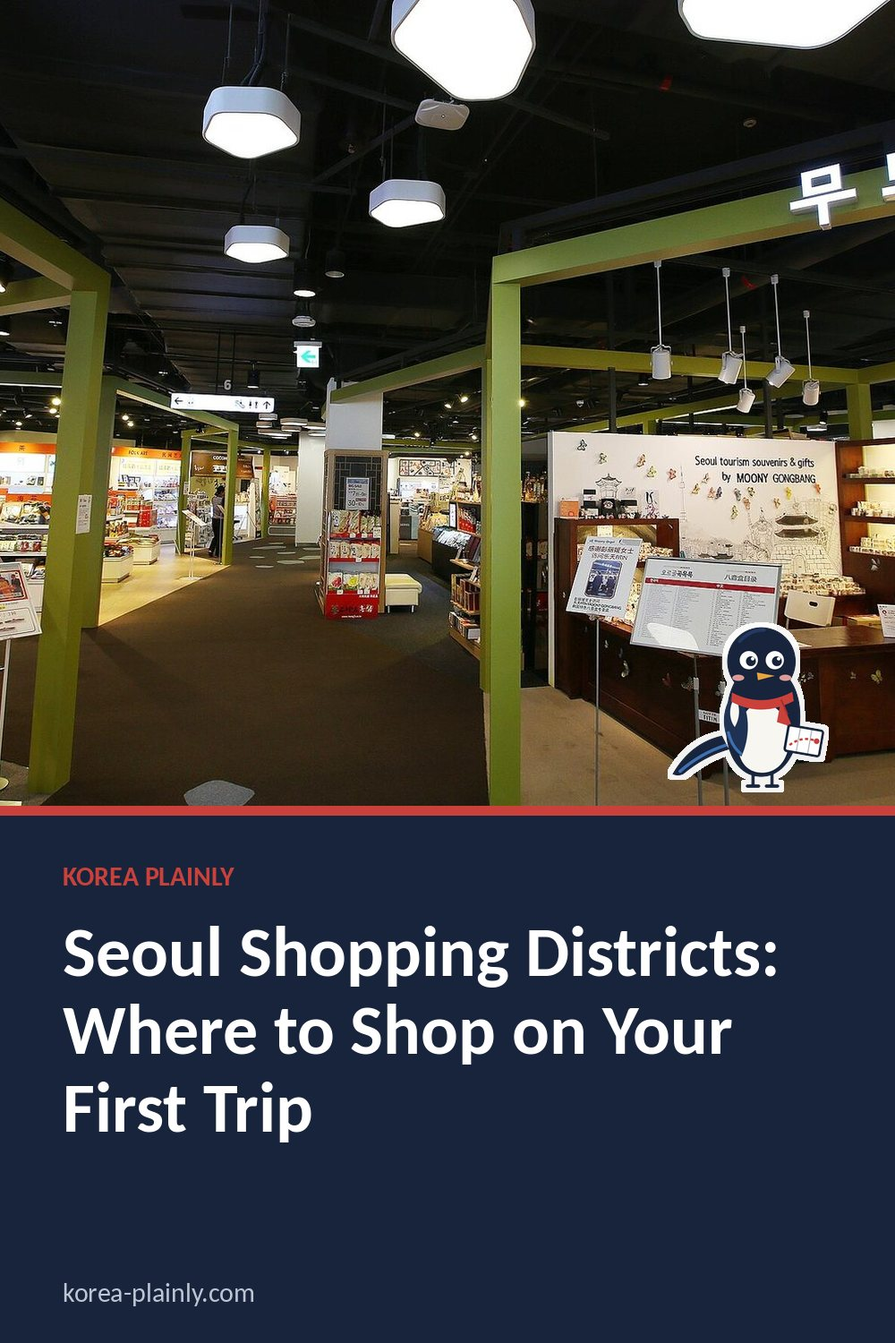
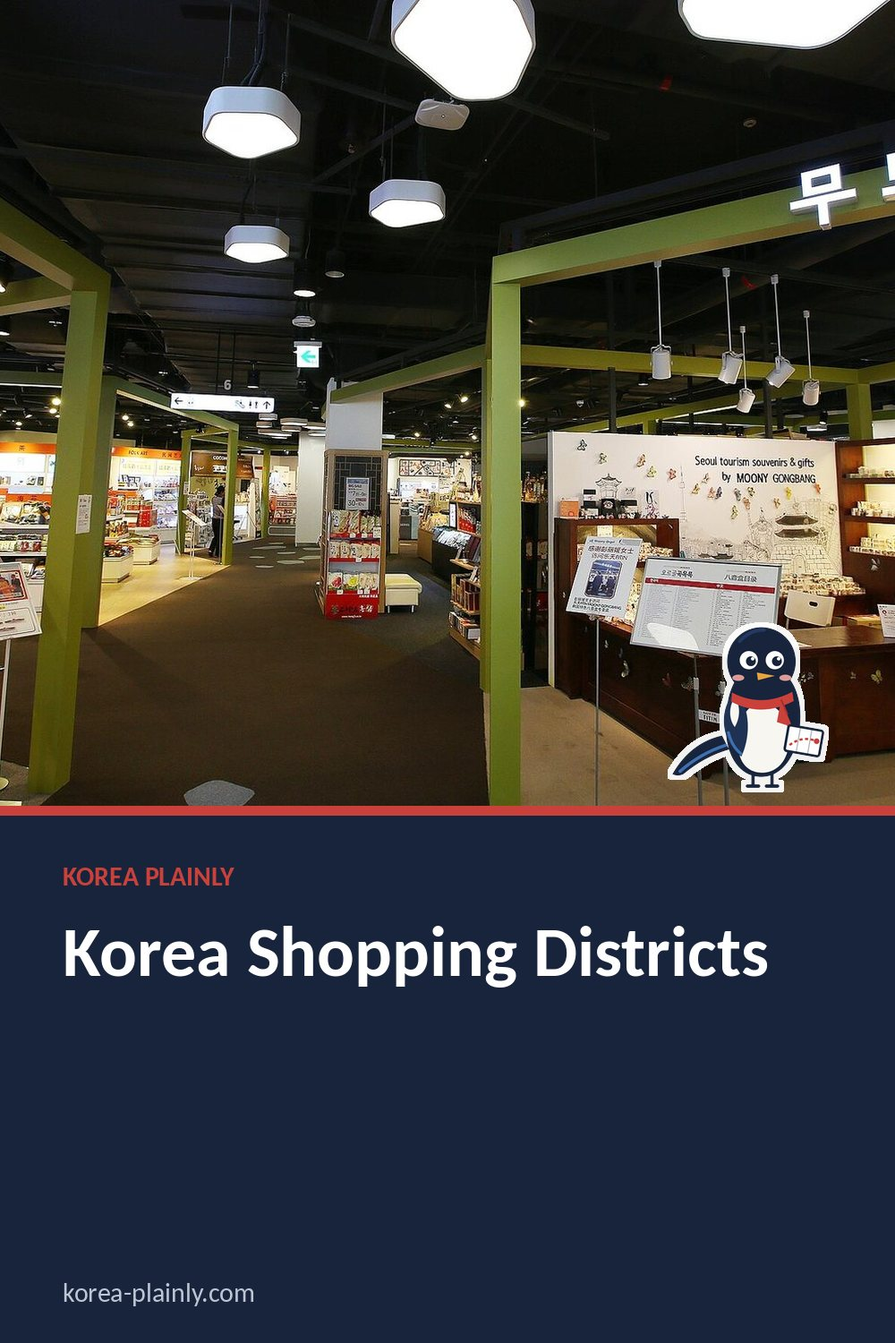
Seoul shopping districts: retitle for 'korea shopping district' and rewrite with stations, exits and real shops
- Title: "Korea Shopping Districts: Where to Shop in Seoul on Your First Trip"
- Quick-pick list by what you want to buy; Myeongdong, Seongsu-dong (pop-up waiting lists),
  Hongdae/Yeonnam-dong, new Gangnam section (GOTO Mall, Gangnam Station arcade, COEX,
  Garosu-gil), Dongdaemun (wholesale vs retail), Namdaemun and Insadong/Ikseon-dong
- Paying, tax refund (15,000 won minimum; immediate refund under 1 million won, 5 million per trip),
  bags, sizes and two Korean phrases; one Naver Map/KakaoMap check line
- Specific bottom line, new FAQ, links to Olive Young, Myeongdong, markets, WOWPASS and tax refund guides
- Specific meta/og/twitter description, dek and guides.html card text; owner's tip box kept as is

Claude-Session: https://claude.ai/code/session_01MMQnqJ4g96w9Ci9kDDL9ms

Changed region(s): [[0.062, 0.6747, 0.868, 0.8587]]

diff --git a/seoul-shopping-districts.html b/seoul-shopping-districts.html
@@ -11,11 +11,11 @@
 >
 
 <link rel="stylesheet" href="style.css?v=20261015-1">
-<title>Seoul Shopping Districts: Where to Shop on Your First Trip</title>
+<title>Korea Shopping Districts: Where to Shop in Seoul on Your First Trip</title>
 
 <meta
   name="description"
-  content="A practical guide to Seoul’s best shopping areas, from Myeongdong beauty stores to Hongdae fashion, Seongsu pop-ups and traditional markets."
+  content="Seoul’s shopping districts compared: Myeongdong for K-beauty, Seongsu for pop-ups, Hongdae, Gangnam’s underground malls, Dongdaemun and the markets."
 >
 <link
   rel="canonical"
@@ -29,12 +29,12 @@
 
 <meta
   property="og:title"
-  content="Seoul Shopping Districts: Where to Shop on Your First Trip"
+  content="Korea Shopping Districts: Where to Shop in Seoul on Your First Trip"
 >
 
 <meta
   property="og:description"
-  content="A practical guide to Seoul’s best shopping areas, from Myeongdong beauty stores to Hongdae fashion, Seongsu pop-ups and traditional markets."
+  content="Seoul’s shopping districts compared: Myeongdong for K-beauty, Seongsu for pop-ups, Hongdae, Gangnam’s underground malls, Dongdaemun and the markets."
 >
 
 <meta
@@ -59,12 +59,12 @@
 
 <meta
   name="twitter:title"
-  content="Seoul Shopping Districts: Where to Shop on Your First Trip"
+  content="Korea Shopping Districts: Where to Shop in Seoul on Your First Trip"
 >
 
 <meta
   name="twitter:description"
-  content="A practical guide to Seoul’s best shopping areas, from Myeongdong beauty stores to Hongdae fashion, Seongsu pop-ups and traditional markets."
+  content="Seoul’s shopping districts compared: Myeongdong for K-beauty, Seongsu for pop-ups, Hongdae, Gangnam’s underground malls, Dongdaemun and the markets."
 >
 
 <meta
@@ -244,12 +244,12 @@ footer {
 <script async src="https://www.googletagmanager.com/gtag/js?id=G-F508WWT8G9"></script><script>window.dataLayer=window.dataLayer||[];function gtag(){dataLayer.push(arguments);}gtag('js',new Date());gtag('config','G-F508WWT8G9');</script>
 <script async src="https://pagead2.googlesyndication.com/pagead/js/adsbygoogle.js?client=ca-pub-7379462117232471" crossorigin="anonymous"></script>
 <style>.kp-date{font-size:13px;color:#62635f;margin:-6px 0 22px}</style>
-<script type="application/ld+json" id="kp-faq-ld">{"@context": "https://schema.org", "@type": "FAQPage", "mainEntity": [{"@type": "Question", "name": "How should I choose which shopping district to visit first?", "acceptedAnswer": {"@type": "Answer", "text": "Pick an area that matches what you want to browse: fashion and beauty, independent shops, traditional crafts, or larger department stores. If you have limited time, focus on one or two nearby areas rather than trying to cover the whole city. Check a map before you set out."}}, {"@type": "Question", "name": "Is it easy to visit more than one shopping district in a day?", "acceptedAnswer": {"@type": "Answer", "text": "Usually, you can travel between districts by subway, taxi, or bus, but allow time for the journey and for walking around each area. Group nearby destinations together when planning your route. A navigation app can help you compare routes and find the nearest station."}}, {"@type": "Question", "name": "Should I bring cash when shopping in Seoul?", "acceptedAnswer": {"@type": "Answer", "text": "Many shops accept cards, but payment options can vary, especially at smaller businesses or market stalls. Carrying a little cash can be useful for purchases where cards are not accepted. Before you shop, check whether your card works overseas and let your bank know about your travel plans if needed."}}]}</script>
 <link rel="stylesheet" href="article.css?v=6">
 <link rel="stylesheet" href="https://fonts.googleapis.com/css2?family=DM+Sans:wght@400;500;600;700&family=Playfair+Display:ital,wght@0,600;1,600&display=swap">
 <link rel="icon" href="/favicon.svg" type="image/svg+xml">
-<script type="application/ld+json" id="kp-article-ld">{"@context": "https://schema.org", "@type": "Article", "headline": "Seoul Shopping Districts: Where to Shop on Your First Trip", "description": "A practical guide to Seoul’s best shopping areas, from Myeongdong beauty stores to Hongdae fashion, Seongsu pop-ups and traditional markets.", "image": ["https://korea-plainly.com/photo-seoul-shopping-districts.jpg"], "datePublished": "2026-10-28", "dateModified": "2026-11-21", "author": {"@type": "Person", "name": "Jungsuk Kim", "url": "https://korea-plainly.com/about.html#author"}, "publisher": {"@type": "Organization", "name": "Korea Plainly", "url": "https://korea-plainly.com/"}, "mainEntityOfPage": "https://korea-plainly.com/seoul-shopping-districts.html"}</script>
-<script type="application/ld+json" id="kp-breadcrumb-ld">{"@context": "https://schema.org", "@type": "BreadcrumbList", "itemListElement": [{"@type": "ListItem", "position": 1, "name": "Home", "item": "https://korea-plainly.com/"}, {"@type": "ListItem", "position": 2, "name": "Guides", "item": "https://korea-plainly.com/guides.html"}, {"@type": "ListItem", "position": 3, "name": "Travel Basics", "item": "https://korea-plainly.com/guides.html?category=travel"}, {"@type": "ListItem", "position": 4, "name": "Seoul Shopping Districts: Where to Shop on Your First Trip", "item": "https://korea-plainly.com/seoul-shopping-districts.html"}]}</script>
+<script type="application/ld+json" id="kp-faq-ld">{"@context": "https://schema.org", "@type": "FAQPage", "mainEntity": [{"@type": "Question", "name": "What is the best shopping district in Seoul for a first-time visitor?", "acceptedAnswer": {"@type": "Answer", "text": "Myeongdong is the easiest: everything is within a few blocks of Myeong-dong Station, staff are used to visitors and most shops offer tax refunds. If you care more about Korean fashion brands than cosmetics, start at Seongsu-dong instead."}}, {"@type": "Question", "name": "Where can I find cheap clothes in Seoul?", "acceptedAnswer": {"@type": "Answer", "text": "GOTO Mall under the Express Bus Terminal, the Gangnam Station underground arcade, the streets around Hongik University Station and Namdaemun Market all have clothes at lower prices than the department stores."}}, {"@type": "Question", "name": "Can I combine two shopping districts in one day?", "acceptedAnswer": {"@type": "Answer", "text": "Yes, if they are close. Myeongdong and Namdaemun are a ten-minute walk apart, Insadong and Ikseon-dong are next to each other, and Seongsu and Dongdaemun are both on Line 2. Crossing from Hongdae to Gangnam takes about 45 minutes by subway, so give that a separate half-day."}}]}</script>
+<script type="application/ld+json" id="kp-article-ld">{"@context": "https://schema.org", "@type": "Article", "headline": "Korea Shopping Districts: Where to Shop in Seoul on Your First Trip", "description": "Seoul’s shopping districts compared: Myeongdong for K-beauty, Seongsu for pop-ups, Hongdae, Gangnam’s underground malls, Dongdaemun and the markets.", "image": ["https://korea-plainly.com/photo-seoul-shopping-districts.jpg"], "datePublished": "2026-10-28", "dateModified": "2026-11-22", "author": {"@type": "Person", "name": "Jungsuk Kim", "url": "https://korea-plainly.com/about.html#author"}, "publisher": {"@type": "Organization", "name": "Korea Plainly", "url": "https://korea-plainly.com/"}, "mainEntityOfPage": "https://korea-plainly.com/seoul-shopping-districts.html"}</script>
+<script type="application/ld+json" id="kp-breadcrumb-ld">{"@context": "https://schema.org", "@type": "BreadcrumbList", "itemListElement": [{"@type": "ListItem", "position": 1, "name": "Home", "item": "https://korea-plainly.com/"}, {"@type": "ListItem", "position": 2, "name": "Guides", "item": "https://korea-plainly.com/guides.html"}, {"@type": "ListItem", "position": 3, "name": "Travel Basics", "item": "https://korea-plainly.com/guides.html?category=travel"}, {"@type": "ListItem", "position": 4, "name": "Korea Shopping Districts: Where to Shop in Seoul on Your First Trip", "item": "https://korea-plainly.com/seoul-shopping-districts.html"}]}</script>
 <meta property="article:published_time" content="2026-10-28">
 </head>
 
@@ -280,12 +280,12 @@ TRAVEL · KOREA GUIDE
 </div>
 
 <h1>
-Seoul Shopping Districts: Where to Shop on Your First Trip
+Korea Shopping Districts: Where to Shop in Seoul on Your First Trip
 </h1>
-<p class="kp-date" data-kp="date">By <a href="about.html#author">Jungsuk Kim</a>, Korea Plainly · Published <time datetime="2026-10-28">28 October 2026</time> · Updated <time datetime="2026-11-21">21 November 2026</time></p>
+<p class="kp-date" data-kp="date">By <a href="about.html#author">Jungsuk Kim</a>, Korea Plainly · Published <time datetime="2026-10-28">28 October 2026</time> · Updated <time datetime="2026-11-22">22 November 2026</time></p>
 
 <p class="dek">
-A practical guide to Seoul’s best shopping areas, from Myeongdong beauty stores to Hongdae fashion, Seongsu pop-ups and traditional markets.
+Seoul’s shopping districts compared: Myeongdong for K-beauty, Seongsu for pop-ups, Hongdae, Gangnam’s underground malls, Dongdaemun and the markets.
 </p>
 
 <img
@@ -297,53 +297,59 @@ A practical guide to Seoul’s best shopping areas, from Myeongdong beauty store
 
 <article>
 
-<p>Seoul shopping is not all in one place. Some areas are best for skincare and cosmetics, while others are known for independent fashion, traditional crafts or late-night market browsing. On a first trip, choose districts that match what you want to buy, then group nearby stops to avoid spending the day crossing the city. Here is what to expect, how to get there and what to look for.</p>
-<nav class="kp-toc" data-kp="toc" aria-label="On this page"><p>On this page</p><ol><li><a href="#myeongdong-skincare-cosmetics-and-easy-souvenirs">Myeongdong: skincare, cosmetics and easy souvenirs</a></li><li><a href="#hongdae-young-fashion-accessories-and-music">Hongdae: young fashion, accessories and music</a></li><li><a href="#seongsu-pop-up-stores-design-and-caf-s">Seongsu: pop-up stores, design and cafés</a></li><li><a href="#dongdaemun-malls-fashion-and-the-ddp">Dongdaemun: malls, fashion and the DDP</a></li><li><a href="#namdaemun-market-practical-goods-and-market-snacks">Namdaemun Market: practical goods and market snacks</a></li><li><a href="#insadong-crafts-tea-and-korean-style-gifts">Insadong: crafts, tea and Korean-style gifts</a></li><li><a href="#a-simple-plan-for-your-first-shopping-day">A simple plan for your first shopping day</a></li><li><a href="#frequently-asked-questions">Frequently Asked Questions</a></li></ol></nav>
-<h2 id="myeongdong-skincare-cosmetics-and-easy-souvenirs">Myeongdong: skincare, cosmetics and easy souvenirs</h2>
-<p>Myeongdong is a convenient first stop if you want Korean beauty products, street snacks and familiar international brands in one walkable area. Take Line 4 to Myeong-dong Station, or Line 2 to Euljiro 1-ga Station. The busy shopping streets sit between the two. Olive Young has several branches here, and the area is useful for comparing sheet masks, sunscreen and travel-size products. Check ingredients and packaging if you have allergies, and ask staff whether a product is suitable for your skin type.</p>
+<p>Seoul has no single shopping centre. Each district sells something different, so the trick is to pick by what you want to bring home, then stay in one part of the city for half a day. This is how the main areas compare, which station and exit to use, and the small habits that make shopping here easier.</p>
+<nav class="kp-toc" data-kp="toc" aria-label="On this page"><p>On this page</p><ol><li><a href="#quick-pick-which-district-for-what">Quick pick: which district for what</a></li><li><a href="#myeongdong-k-beauty-and-department-stores">Myeongdong: K-beauty and department stores</a></li><li><a href="#seongsu-dong-pop-ups-and-korean-labels">Seongsu-dong: pop-ups and Korean labels</a></li><li><a href="#hongdae-and-yeonnam-dong-young-fashion">Hongdae and Yeonnam-dong: young fashion</a></li><li><a href="#gangnam-underground-malls-and-coex">Gangnam: underground malls and COEX</a></li><li><a href="#dongdaemun-malls-and-the-ddp">Dongdaemun: malls and the DDP</a></li><li><a href="#namdaemun-and-insadong-markets-and-gifts">Namdaemun and Insadong: markets and gifts</a></li><li><a href="#paying-tax-refunds-and-useful-korean">Paying, tax refunds and useful Korean</a></li><li><a href="#faq">FAQ</a></li></ol></nav>
+<h2 id="quick-pick-which-district-for-what">Quick pick: which district for what</h2>
+<ul>
+<li><strong>K-beauty and skincare:</strong> Myeongdong, or Olive Young N Seongsu in Seongsu-dong.</li>
+<li><strong>Korean fashion labels and pop-ups:</strong> Seongsu-dong, then Hongdae.</li>
+<li><strong>Cheap clothes, phone cases and accessories:</strong> the Gangnam underground arcades and Hongdae.</li>
+<li><strong>Malls and late shopping:</strong> Dongdaemun, COEX in Samseong, The Hyundai Seoul in Yeouido.</li>
+<li><strong>Everyday goods and market food:</strong> Namdaemun Market.</li>
+<li><strong>Traditional gifts, tea and ceramics:</strong> Insadong and Ikseon-dong.</li>
+</ul>
+<h2 id="myeongdong-k-beauty-and-department-stores">Myeongdong: K-beauty and department stores</h2>
+<p>Take Line 4 to Myeong-dong Station (exits 5 to 8 open onto the shopping streets) or Line 2 to Euljiro 1-ga. Within a few blocks you have Olive Young’s large Myeongdong stores, almost every Korean cosmetics brand, the Lotte Department Store main branch with Lotte Duty Free upstairs, and Shinsegae’s main store towards Hoehyeon.</p>
 <aside class="kp-own-tip" style="margin:24px 0;padding:16px 18px;border-left:4px solid #c9413a;background:#fffdf8;border-radius:10px"><p style="margin:0 0 6px;font-size:13px;letter-spacing:.08em;font-weight:700;color:#c9413a">FROM MY OWN TRIPS</p><p style="margin:0">All of these are good for shopping, but the two places people go most right now are Myeongdong and Seongsu-dong. Hongdae and the Gangnam underground shopping arcade are worth a look too.</p><p style="margin:8px 0 0;font-size:14px;color:#62635f">&mdash; Jungsuk Kim, Korea Plainly</p></aside>
-<p>Food stalls sell snacks such as hotteok, a sweet filled pancake, and tteokbokki, spicy rice cakes. Prices and stall offerings can change, so carry some cash as well as a card. Myeongdong is busy, especially around the main shopping streets, so keep your bag zipped and step aside before checking your map. Look for a “Tax Refund” sign at participating shops and ask at checkout whether they offer an immediate refund or provide a receipt for an airport refund.</p>
-<h2 id="hongdae-young-fashion-accessories-and-music">Hongdae: young fashion, accessories and music</h2>
-<p>Hongdae suits shoppers looking for affordable clothes, phone accessories, cosmetics and small gifts. Take Line 2, the Airport Railroad Express (AREX) or the Gyeongui-Jungang Line to Hongik University Station. The main shopping streets are close to the station, while the lanes toward Yeonnam-dong have cafés and smaller design shops. AK Plaza Hongdae is a useful landmark for finding fashion, character goods and food under one roof.</p>
-<p>Independent stores often have a different selection from the big chains, so browse before buying if you are comparing prices or sizes. Korean clothing sizes may not match the labels you use at home; trying things on is the safest approach, and some shops may have fitting-room rules. In the evening, you may see performers near the station and along the busy streets. Keep shopping separate from your café stop: Yeonnam-dong’s quieter lanes are better for sitting down after the crowds.</p>
-<h2 id="seongsu-pop-up-stores-design-and-caf-s">Seongsu: pop-up stores, design and cafés</h2>
-<p>Seongsu is a good choice for visitors interested in fashion labels, beauty launches and Korean design rather than bargain hunting. Ride Line 2 to Seongsu Station. The surrounding former industrial area has brick warehouses converted into cafés, showrooms and shops, and temporary pop-up stores are a major draw. A store may be open for a limited campaign, so check its current listing before making a special trip.</p>
-<p>Some pop-ups use numbered entry or an online waiting list, particularly when a popular brand is involved. If you see a queue, ask staff whether you need to register before joining it. This area is easy to explore on foot, but the shop you want may be several blocks from the station. Wear comfortable shoes, and leave room in your schedule for a coffee stop; Seongsu is as much about browsing and atmosphere as completing a shopping list.</p>
-<h2 id="dongdaemun-malls-fashion-and-the-ddp">Dongdaemun: malls, fashion and the DDP</h2>
-<p>Dongdaemun works well if you want several large shopping buildings close together. Use Line 2, 4 or 5 to reach Dongdaemun History &amp; Culture Park Station, beside the curved Dongdaemun Design Plaza (DDP). The DDP is a helpful landmark and often hosts exhibitions or design events. Nearby malls such as Doota offer clothes, accessories and food, though each building has its own mix of shops.</p>
-<p>Do not assume every Dongdaemun store is a wholesale outlet or that every building follows the same schedule. Some businesses cater to retailers, and shopping arrangements vary. For a relaxed first visit, browse the public-facing malls and the DDP rather than planning around wholesale markets. If you are buying clothing, check whether the price includes alterations or whether an item is sold as a set. The area can be a good evening stop, but confirm the details for the particular shop you want to visit.</p>
-<h2 id="namdaemun-market-practical-goods-and-market-snacks">Namdaemun Market: practical goods and market snacks</h2>
-<p>For a traditional market atmosphere, go to Namdaemun Market near Hoehyeon Station on Line 4. Its many lanes include shops selling clothing, kitchenware, bags, children’s goods and souvenirs. It is a useful place to look for everyday items and gifts rather than high-end fashion. Sungnyemun Gate, one of Seoul’s historic gates, is a short walk away and makes a clear landmark if you want to pair shopping with a little sightseeing.</p>
-<p>Market stalls are close together, so take a photo of the lane or shop sign if you want to return later. Food is part of the visit: try a bowl from the market’s kalguksu area, known for knife-cut noodle soup. A few basic words help: “eolmayeyo?” means “How much is it?” and “gamsahamnida” means “Thank you.” Keep small bills handy for modest purchases, and ask before photographing a seller or their goods.</p>
-<h2 id="insadong-crafts-tea-and-korean-style-gifts">Insadong: crafts, tea and Korean-style gifts</h2>
-<p>Insadong is a calmer choice for traditional-inspired gifts, stationery, ceramics and tea. Anguk Station on Line 3 is a convenient starting point. Walk along Insadong-gil and explore Ssamziegil, a multi-level complex with small shops selling handmade and design-led items. You will find more distinctive souvenirs here than in a standard department store, but compare materials and labels if you want an item made in Korea rather than simply Korean-themed.</p>
-<p>For a break, look for a tea house and try yujacha, citron tea, or sujeonggwa, a cinnamon and ginger drink. These are also good places to sit after walking through the market lanes. Insadong pairs easily with nearby Bukchon or Gyeongbokgung, but keep your shopping bags manageable if you plan to continue sightseeing on foot.</p>
-<h2 id="a-simple-plan-for-your-first-shopping-day">A simple plan for your first shopping day</h2>
-<p>Pick one or two areas rather than trying to cover all of Seoul. Myeongdong and Namdaemun work well together for cosmetics, souvenirs and market food. Hongdae and Yeonnam-dong make a good half-day for fashion and cafés, while Seongsu is best when you are interested in pop-ups and design. Dongdaemun is an easy choice for malls and the DDP, and Insadong suits traditional gifts.</p>
-<p>Use a transit card for the subway and buses, and check routes in Naver Map or KakaoMap; both are widely used for navigating Seoul. Keep receipts for returns or tax-refund questions, and take a reusable bag if you expect to shop. For current pop-ups, store details and transport routes, check Naver Map or the official Visit Seoul website before you set out.</p>
-
+<p>The street-food carts set up from late afternoon: gyeranppang (egg bread), hotteok, tornado potatoes and grilled cheese lobster tails. Compare prices on sunscreen and sheet masks between Olive Young and the brand shops, because brand shops often run “1+1” (buy one, get one) offers. Our <a href="olive-young-korea-guide.html">Olive Young guide</a> covers what to buy, and the <a href="myeongdong-night-market.html">Myeongdong guide</a> covers the food stalls.</p>
+<h2 id="seongsu-dong-pop-ups-and-korean-labels">Seongsu-dong: pop-ups and Korean labels</h2>
+<p>Ride Line 2 to Seongsu Station and walk out of exit 3 or 4 towards Yeonmujang-gil, the lane that runs through the old shoe-factory blocks. This is where Korean fashion and beauty brands open flagship stores and short pop-ups in converted warehouses, alongside Musinsa’s own shops and Olive Young N Seongsu, a big concept store aimed at visitors. Prices are mid-range, not cheap.</p>
+<p>Popular pop-ups use a waiting list. You scan a QR code or type a phone number on a tablet and get a text when it is your turn, so a Korean number or eSIM helps. Weekday mornings are calmest.</p>
+<h2 id="hongdae-and-yeonnam-dong-young-fashion">Hongdae and Yeonnam-dong: young fashion</h2>
+<p>Hongik University Station is served by Line 2, AREX and the Gyeongui-Jungang Line, so it is easy straight from Incheon Airport. Exit 9 leads to the main streets of cheap clothing, socks, phone cases, character goods and photo booths; AK&amp; Hongdae sits beside the station. Exit 3 takes you along Gyeongui Line Forest Park into Yeonnam-dong, where the shops are smaller and the cafés quieter. Evenings bring buskers and crowds.</p>
+<h2 id="gangnam-underground-malls-and-coex">Gangnam: underground malls and COEX</h2>
+<p>South of the river, some of the best-value shopping is below ground. GOTO Mall runs under the Express Bus Terminal (Lines 3, 7 and 9) with hundreds of small shops selling clothes, shoes, bags and homeware, and the Shinsegae Gangnam department store is directly above. The Gangnam Station underground arcade along Line 2 is similar but smaller. Further east, Starfield COEX Mall at Samseong Station (Line 2) has the Starfield Library and is a good choice on a rainy or freezing day. For boutiques above ground, Garosu-gil near Sinsa Station (Line 3 and the Sinbundang Line) has Korean labels and cafés.</p>
+<h2 id="dongdaemun-malls-and-the-ddp">Dongdaemun: malls and the DDP</h2>
+<p>Dongdaemun History &amp; Culture Park Station (Lines 2, 4 and 5) puts you beside the curved Dongdaemun Design Plaza. Doota Mall and the other retail towers around it sell clothing floor by floor and stay open later than most of the city. Many of the neighbouring buildings are wholesale markets that trade overnight with shop owners, not tourists; you can look, but sellers may not sell single items.</p>
+<h2 id="namdaemun-and-insadong-markets-and-gifts">Namdaemun and Insadong: markets and gifts</h2>
+<p>Namdaemun Market starts at Hoehyeon Station exit 5 (Line 4). It is Seoul’s big general market: kitchenware, children’s clothes, ginseng, socks and cheap souvenirs. Eat at the kalguksu alley, where a bowl of knife-cut noodles often comes with a side of bibimbap. Many stalls close on Sundays. See our <a href="korean-traditional-markets.html">traditional markets guide</a> for other markets worth the trip.</p>
+<p>For gifts with a Korean look, take Line 3 to Anguk Station (exit 6) and walk down Insadong-gil to Ssamziegil, a spiral building of small craft shops. You will find hanji paper, celadon-style ceramics, wooden spoons and chopsticks, and tea. Ikseon-dong’s hanok alleys, near Jongno 3-ga Station, are a five-minute walk away.</p>
+<h2 id="paying-tax-refunds-and-useful-korean">Paying, tax refunds and useful Korean</h2>
+<ul>
+<li><strong>Cards:</strong> Visa and Mastercard work almost everywhere, including most market stalls. Carry some cash for street food, and a prepaid card such as <a href="wowpass-card-korea.html">WOWPASS</a> if your card charges foreign fees.</li>
+<li><strong>Tax refund:</strong> look for “Tax Free” or “Tax Refund” signs and bring your passport. Purchases of 15,000 won or more in one shop qualify, and many shops take the tax off at the till for purchases under 1 million won each, up to 5 million won per trip. Details are in our <a href="korea-tax-refund-guide.html">tax refund guide</a>.</li>
+<li><strong>Bags:</strong> shops may charge a small fee for a bag, so bring a foldable one.</li>
+<li><strong>Sizes:</strong> Korean clothing often runs small, and many cheaper shops are “free size” only. Ask “ibeobwado dwaeyo?” (Can I try it on?) before taking anything to a fitting room; some shops do not allow trying on tops.</li>
+<li><strong>Prices:</strong> “eolmayeyo?” means “How much is it?”. Haggling is rare outside markets.</li>
+</ul>
+<p>Shop hours vary by building and pop-ups come and go, so check the shop on Naver Map or KakaoMap before you set out.</p>
 <div class="tip">
 
 <strong>
 Bottom line:
 </strong>
 
-A little preparation can make your
-time in Korea much easier.
-Keep this guide handy and enjoy
-exploring at your own pace.
+For a first trip, do Myeongdong and Seongsu-dong, add Hongdae or the Gangnam underground malls for cheap fashion, and save Insadong for gifts.
 
 </div>
-
-
 <section class="faq">
-<h2 id="frequently-asked-questions">Frequently Asked Questions</h2>
-<h3>How should I choose which shopping district to visit first?</h3>
-<p>Pick an area that matches what you want to browse: fashion and beauty, independent shops, traditional crafts, or larger department stores. If you have limited time, focus on one or two nearby areas rather than trying to cover the whole city. Check a map before you set out.</p>
-<h3>Is it easy to visit more than one shopping district in a day?</h3>
-<p>Usually, you can travel between districts by subway, taxi, or bus, but allow time for the journey and for walking around each area. Group nearby destinations together when planning your route. A navigation app can help you compare routes and find the nearest station.</p>
-<h3>Should I bring cash when shopping in Seoul?</h3>
-<p>Many shops accept cards, but payment options can vary, especially at smaller businesses or market stalls. Carrying a little cash can be useful for purchases where cards are not accepted. Before you shop, check whether your card works overseas and let your bank know about your travel plans if needed.</p>
+<h2 id="faq">FAQ</h2>
+<h3>What is the best shopping district in Seoul for a first-time visitor?</h3>
+<p>Myeongdong is the easiest: everything is within a few blocks of Myeong-dong Station, staff are used to visitors and most shops offer tax refunds. If you care more about Korean fashion brands than cosmetics, start at Seongsu-dong instead.</p>
+<h3>Where can I find cheap clothes in Seoul?</h3>
+<p>GOTO Mall under the Express Bus Terminal, the Gangnam Station underground arcade, the streets around Hongik University Station and Namdaemun Market all have clothes at lower prices than the department stores.</p>
+<h3>Can I combine two shopping districts in one day?</h3>
+<p>Yes, if they are close. Myeongdong and Namdaemun are a ten-minute walk apart, Insadong and Ikseon-dong are next to each other, and Seongsu and Dongdaemun are both on Line 2. Crossing from Hongdae to Gangnam takes about 45 minutes by subway, so give that a separate half-day.</p>
 </section>
 
 <!-- kp-kkachi -->

diff --git a/seoul.html b/seoul.html
@@ -58,7 +58,7 @@ h1{font-size:clamp(44px,8vw,82px);line-height:1;margin:12px 0}.intro{max-width:7
 <div class="chips"></div>
 <figure class="hero"><img src="regional-seoul-culture-gyeongbokgung-palace.jpg" alt="Gyeongbokgung Palace in Seoul" srcset="img/regional-seoul-culture-gyeongbokgung-palace.fcd7813c.w480.webp 480w, img/regional-seoul-culture-gyeongbokgung-palace.fcd7813c.w800.webp 800w, img/regional-seoul-culture-gyeongbokgung-palace.fcd7813c.w1200.webp 1200w, regional-seoul-culture-gyeongbokgung-palace.jpg 1600w" sizes="(max-width: 600px) 100vw, (max-width: 1000px) 50vw, 400px" decoding="async"><figcaption><a href="https://commons.wikimedia.org/wiki/File:Gyeonghoeru_(Royal_Banquet_Hall)_at_Gyeongbokgung_Palace,_Seoul.jpg" target="_blank" rel="noopener nofollow">Photo: Frank Schulenburg, CC BY-SA 4.0, via Wikimedia Commons</a></figcaption></figure>
 <a class="plan" href="seoul-3-day-itinerary.html"><img src="photo-seoul-3-day-itinerary.jpg" alt="" loading="lazy" srcset="img/photo-seoul-3-day-itinerary.6f9c95fd.w480.webp 480w, img/photo-seoul-3-day-itinerary.6f9c95fd.w800.webp 800w, img/photo-seoul-3-day-itinerary.6f9c95fd.w1200.webp 1200w, photo-seoul-3-day-itinerary.jpg 1600w" sizes="(max-width: 600px) 100vw, (max-width: 1000px) 50vw, 400px" decoding="async"><div><small>Plan your days</small><b>3 Days in Seoul: A First-Timer&#x27;s Itinerary</b><em>Read the itinerary &rarr;</em></div></a><a class="plan" href="seoul-5-day-itinerary.html"><img src="photo-seoul-5-day-itinerary.jpg" alt="" loading="lazy" srcset="img/photo-seoul-5-day-itinerary.e278facb.w480.webp 480w, img/photo-seoul-5-day-itinerary.e278facb.w800.webp 800w, img/photo-seoul-5-day-itinerary.e278facb.w1200.webp 1200w, photo-seoul-5-day-itinerary.jpg 1600w" sizes="(max-width: 600px) 100vw, (max-width: 1000px) 50vw, 400px" decoding="async"><div><small>Plan your days</small><b>5 Days in Seoul: A Relaxed Itinerary for First-Timers</b><em>Read the itinerary &rarr;</em></div></a>
-<section class="overview"><h2>Planning a trip to Seoul</h2><p class="start">New to Seoul? Start with <a href="seoul-3-day-itinerary.html">a 3-day itinerary</a>, <a href="seoul-neighborhoods-guide.html">where to stay by neighbourhood</a> and <a href="seoul-subway-for-foreigners.html">how to use the subway</a>.</p><h3>Getting there</h3><p>Most international flights land at Incheon Airport. The AREX train reaches Seoul Station in about an hour, and airport limousine buses stop near most big hotels. Flights from Japan and China also use Gimpo Airport, which is on the subway. See our guide to getting from Incheon Airport to Seoul.</p><h3>How long to stay</h3><p>Three days covers the palaces, a market, a hanok neighbourhood and one evening view. Five days lets you add a day trip, such as the DMZ, Suwon or Nami Island, and slow down in neighbourhoods like Seongsu or Yeonnam-dong.</p><h3>Getting around</h3><p>The subway reaches almost everywhere, with signs and announcements in English. Get a T-money card at any convenience store, top it up with cash and tap in and out. Taxis are good value for short trips, especially at night, and Kakao T works for foreigners.</p><h3>When to go</h3><p>April and May, and late September to early November, are the most comfortable months. Summer is hot, humid and rainy; winter is cold and dry but bright, with fewer crowds and Christmas lights in December.</p><h3>Where to stay</h3><p>First-time visitors usually stay around Myeongdong or Jongno for sightseeing, Hongdae for nightlife and a younger feel, or Gangnam for business and shopping. Being close to a subway station matters more than the exact district.</p><h3>What to see first</h3><p>Gyeongbokgung Palace and the Bukchon hanok streets next to it make the classic first morning; visitors wearing hanbok get into the palaces free. Changdeokgung&#x27;s Secret Garden needs a guided-tour ticket, so book or arrive early. In the afternoon, walk the Cheonggyecheon stream to Gwangjang Market, then finish with a view from N Seoul Tower or a Han River park at sunset.</p><h3>What to eat</h3><p>Start at a market: Gwangjang Market for bindaetteok (mung bean pancakes) and mayak gimbap, Myeongdong&#x27;s evening street stalls for skewers and egg bread. Korean barbecue, samgyetang (ginseng chicken soup) and a late-night fried chicken and beer are all easy to find in any busy neighbourhood. Many restaurants have picture menus or tablets with an English option.</p><h3>Good to know</h3><p>Most places take foreign cards, but keep some cash for markets and to top up T-money. Download Naver Map or KakaoMap before you arrive, as Google Maps does not give walking or driving directions in Korea. Palaces and many museums close one day a week, usually Monday or Tuesday, so check before you go.</p></section><section class="places"><h2>Places worth your time in Seoul</h2><p class="note">The Korean name is the one to show a taxi driver or paste into Naver Map or KakaoMap.</p><ul><li><h3>Gyeongbokgung Palace <span lang="ko">경복궁</span></h3><p>The main palace of the Joseon dynasty, first built in 1395. Arrive for the changing of the guard at Gwanghwamun gate, then walk through to Gyeonghoeru, the pavilion on the pond. It is closed on Tuesdays, and entry is free if you wear hanbok.</p><p class="links"><a href="https://map.naver.com/p/search/%EA%B2%BD%EB%B3%B5%EA%B6%81" target="_blank" rel="noopener nofollow">Find it on Naver Map</a></p></li><li><h3>Bukchon Hanok Village <span lang="ko">북촌한옥마을</span></h3><p>Lanes of traditional tiled-roof houses on the hill between Gyeongbokgung and Changdeokgung. People live here, so keep your voice down; the busiest residential lanes are open to visitors only during daytime hours.</p><p class="links"><a href="https://map.naver.com/p/search/%EB%B6%81%EC%B4%8C%ED%95%9C%EC%98%A5%EB%A7%88%EC%9D%84" target="_blank" rel="noopener nofollow">Find it on Naver Map</a></p></li><li><h3>Cheonggyecheon Stream <span lang="ko">청계천</span></h3><p>A restored stream that runs for nearly 11 kilometres through the centre, a few steps below street level. It is at its best in the evening: start at Cheonggye Plaza near Gwanghwamun and walk east towards Gwangjang Market.</p><p class="links"><a href="https://map.naver.com/p/search/%EC%B2%AD%EA%B3%84%EC%B2%9C" target="_blank" rel="noopener nofollow">Find it on Naver Map</a></p></li><li><h3>Gwangjang Market <span lang="ko">광장시장</span></h3><p>One of Seoul&#x27;s oldest covered markets and the easiest place to try market food: bindaetteok (mung bean pancakes), mayak gimbap and knife-cut noodles, eaten at the stall&#x27;s bench.</p><p class="links"><a href="https://map.naver.com/p/search/%EA%B4%91%EC%9E%A5%EC%8B%9C%EC%9E%A5" target="_blank" rel="noopener nofollow">Find it on Naver Map</a> &middot; <a href="korean-street-food-guide.html">Read our guide</a></p></li><li><h3>Myeongdong <span lang="ko">명동</span></h3><p>Seoul&#x27;s best-known shopping streets for cosmetics and fashion. Street food stalls set up from late afternoon, and Myeongdong Cathedral at the top of the hill is a quiet break from the crowds.</p><p class="links"><a href="https://map.naver.com/p/search/%EB%AA%85%EB%8F%99" target="_blank" rel="noopener nofollow">Find it on Naver Map</a> &middot; <a href="olive-young-korea-guide.html">Read our guide</a></p></li><li><h3>N Seoul Tower on Namsan <span lang="ko">남산서울타워</span></h3><p>The tower on the hill in the middle of the city. Take the cable car or the Namsan circular bus, or walk up through the park in about 30 to 40 minutes, and time it for sunset.</p><p class="links"><a href="https://map.naver.com/p/search/%EB%82%A8%EC%82%B0%EC%84%9C%EC%9A%B8%ED%83%80%EC%9B%8C" target="_blank" rel="noopener nofollow">Find it on Naver Map</a></p></li></ul></section><section class="grid"><article class="card"><a href="seoul-travel-pass.html"><img src="photo-seoul-travel-pass.jpg" alt="" loading="lazy" srcset="img/photo-seoul-travel-pass.6e05e0f0.w480.webp 480w, img/photo-seoul-travel-pass.6e05e0f0.w800.webp 800w, img/photo-seoul-travel-pass.6e05e0f0.w1200.webp 1200w, photo-seoul-travel-pass.jpg 1600w" sizes="(max-width: 600px) 100vw, (max-width: 1000px) 50vw, 400px" decoding="async"><div class="card-body"><div class="tag">Travel</div><h2>Discover Seoul Pass: Is the Seoul Travel Pass Worth It?</h2><span>Read guide &rarr;</span></div></a></article><article class="card"><a href="seoul-shopping-districts.html"><img src="photo-seoul-shopping-districts.jpg" alt="" loading="lazy" srcset="img/photo-seoul-shopping-districts.40bf6f67.w480.webp 480w, img/photo-seoul-shopping-districts.40bf6f67.w800.webp 800w, img/photo-seoul-shopping-districts.40bf6f67.w1200.webp 1200w, photo-seoul-shopping-districts.jpg 1600w" sizes="(max-width: 600px) 100vw, (max-width: 1000px) 50vw, 400px" decoding="async"><div class="card-body"><div class="tag">Shopping</div><h2>Seoul Shopping Districts: Where to Shop on Your First Trip</h2><span>Read guide &rarr;</span></div></a></article></section>
+<section class="overview"><h2>Planning a trip to Seoul</h2><p class="start">New to Seoul? Start with <a href="seoul-3-day-itinerary.html">a 3-day itinerary</a>, <a href="seoul-neighborhoods-guide.html">where to stay by neighbourhood</a> and <a href="seoul-subway-for-foreigners.html">how to use the subway</a>.</p><h3>Getting there</h3><p>Most international flights land at Incheon Airport. The AREX train reaches Seoul Station in about an hour, and airport limousine buses stop near most big hotels. Flights from Japan and China also use Gimpo Airport, which is on the subway. See our guide to getting from Incheon Airport to Seoul.</p><h3>How long to stay</h3><p>Three days covers the palaces, a market, a hanok neighbourhood and one evening view. Five days lets you add a day trip, such as the DMZ, Suwon or Nami Island, and slow down in neighbourhoods like Seongsu or Yeonnam-dong.</p><h3>Getting around</h3><p>The subway reaches almost everywhere, with signs and announcements in English. Get a T-money card at any convenience store, top it up with cash and tap in and out. Taxis are good value for short trips, especially at night, and Kakao T works for foreigners.</p><h3>When to go</h3><p>April and May, and late September to early November, are the most comfortable months. Summer is hot, humid and rainy; winter is cold and dry but bright, with fewer crowds and Christmas lights in December.</p><h3>Where to stay</h3><p>First-time visitors usually stay around Myeongdong or Jongno for sightseeing, Hongdae for nightlife and a younger feel, or Gangnam for business and shopping. Being close to a subway station matters more than the exact district.</p><h3>What to see first</h3><p>Gyeongbokgung Palace and the Bukchon hanok streets next to it make the classic first morning; visitors wearing hanbok get into the palaces free. Changdeokgung&#x27;s Secret Garden needs a guided-tour ticket, so book or arrive early. In the afternoon, walk the Cheonggyecheon stream to Gwangjang Market, then finish with a view from N Seoul Tower or a Han River park at sunset.</p><h3>What to eat</h3><p>Start at a market: Gwangjang Market for bindaetteok (mung bean pancakes) and mayak gimbap, Myeongdong&#x27;s evening street stalls for skewers and egg bread. Korean barbecue, samgyetang (ginseng chicken soup) and a late-night fried chicken and beer are all easy to find in any busy neighbourhood. Many restaurants have picture menus or tablets with an English option.</p><h3>Good to know</h3><p>Most places take foreign cards, but keep some cash for markets and to top up T-money. Download Naver Map or KakaoMap before you arrive, as Google Maps does not give walking or driving directions in Korea. Palaces and many museums close one day a week, usually Monday or Tuesday, so check before you go.</p></section><section class="places"><h2>Places worth your time in Seoul</h2><p class="note">The Korean name is the one to show a taxi driver or paste into Naver Map or KakaoMap.</p><ul><li><h3>Gyeongbokgung Palace <span lang="ko">경복궁</span></h3><p>The main palace of the Joseon dynasty, first built in 1395. Arrive for the changing of the guard at Gwanghwamun gate, then walk through to Gyeonghoeru, the pavilion on the pond. It is closed on Tuesdays, and entry is free if you wear hanbok.</p><p class="links"><a href="https://map.naver.com/p/search/%EA%B2%BD%EB%B3%B5%EA%B6%81" target="_blank" rel="noopener nofollow">Find it on Naver Map</a></p></li><li><h3>Bukchon Hanok Village <span lang="ko">북촌한옥마을</span></h3><p>Lanes of traditional tiled-roof houses on the hill between Gyeongbokgung and Changdeokgung. People live here, so keep your voice down; the busiest residential lanes are open to visitors only during daytime hours.</p><p class="links"><a href="https://map.naver.com/p/search/%EB%B6%81%EC%B4%8C%ED%95%9C%EC%98%A5%EB%A7%88%EC%9D%84" target="_blank" rel="noopener nofollow">Find it on Naver Map</a></p></li><li><h3>Cheonggyecheon Stream <span lang="ko">청계천</span></h3><p>A restored stream that runs for nearly 11 kilometres through the centre, a few steps below street level. It is at its best in the evening: start at Cheonggye Plaza near Gwanghwamun and walk east towards Gwangjang Market.</p><p class="links"><a href="https://map.naver.com/p/search/%EC%B2%AD%EA%B3%84%EC%B2%9C" target="_blank" rel="noopener nofollow">Find it on Naver Map</a></p></li><li><h3>Gwangjang Market <span lang="ko">광장시장</span></h3><p>One of Seoul&#x27;s oldest covered markets and the easiest place to try market food: bindaetteok (mung bean pancakes), mayak gimbap and knife-cut noodles, eaten at the stall&#x27;s bench.</p><p class="links"><a href="https://map.naver.com/p/search/%EA%B4%91%EC%9E%A5%EC%8B%9C%EC%9E%A5" target="_blank" rel="noopener nofollow">Find it on Naver Map</a> &middot; <a href="korean-street-food-guide.html">Read our guide</a></p></li><li><h3>Myeongdong <span lang="ko">명동</span></h3><p>Seoul&#x27;s best-known shopping streets for cosmetics and fashion. Street food stalls set up from late afternoon, and Myeongdong Cathedral at the top of the hill is a quiet break from the crowds.</p><p class="links"><a href="https://map.naver.com/p/search/%EB%AA%85%EB%8F%99" target="_blank" rel="noopener nofollow">Find it on Naver Map</a> &middot; <a href="olive-young-korea-guide.html">Read our guide</a></p></li><li><h3>N Seoul Tower on Namsan <span lang="ko">남산서울타워</span></h3><p>The tower on the hill in the middle of the city. Take the cable car or the Namsan circular bus, or walk up through the park in about 30 to 40 minutes, and time it for sunset.</p><p class="links"><a href="https://map.naver.com/p/search/%EB%82%A8%EC%82%B0%EC%84%9C%EC%9A%B8%ED%83%80%EC%9B%8C" target="_blank" rel="noopener nofollow">Find it on Naver Map</a></p></li></ul></section><section class="grid"><article class="card"><a href="seoul-travel-pass.html"><img src="photo-seoul-travel-pass.jpg" alt="" loading="lazy" srcset="img/photo-seoul-travel-pass.6e05e0f0.w480.webp 480w, img/photo-seoul-travel-pass.6e05e0f0.w800.webp 800w, img/photo-seoul-travel-pass.6e05e0f0.w1200.webp 1200w, photo-seoul-travel-pass.jpg 1600w" sizes="(max-width: 600px) 100vw, (max-width: 1000px) 50vw, 400px" decoding="async"><div class="card-body"><div class="tag">Travel</div><h2>Discover Seoul Pass: Is the Seoul Travel Pass Worth It?</h2><span>Read guide &rarr;</span></div></a></article><article class="card"><a href="seoul-shopping-districts.html"><img src="photo-seoul-shopping-districts.jpg" alt="" loading="lazy" srcset="img/photo-seoul-shopping-districts.40bf6f67.w480.webp 480w, img/photo-seoul-shopping-districts.40bf6f67.w800.webp 800w, img/photo-seoul-shopping-districts.40bf6f67.w1200.webp 1200w, photo-seoul-shopping-districts.jpg 1600w" sizes="(max-width: 600px) 100vw, (max-width: 1000px) 50vw, 400px" decoding="async"><div class="card-body"><div class="tag">Shopping</div><h2>Korea Shopping Districts: Where to Shop in Seoul on Your First Trip</h2><span>Read guide &rarr;</span></div></a></article></section>
 <!-- kp-region-festivals -->
 <style>.kp-fest{list-style:none;padding:0;margin:14px 0 26px}.kp-fest li{display:grid;grid-template-columns:110px 1fr;gap:14px;padding:13px 0;border-bottom:1px solid rgba(20,28,42,.1)}.kp-fest time{font-size:13px;font-weight:700;color:#c9413a;line-height:1.4}.kp-fest b{display:block;font-size:16px;line-height:1.35;color:#17243c}.kp-fest small{display:block;font-size:13px;color:#5b6472;margin-top:3px}.kp-fest a{font-size:13px;font-weight:600;color:#c9413a}.kp-fest-note{font-size:13px;color:#5b6472}@media(max-width:520px){.kp-fest li{grid-template-columns:1fr;gap:4px}}</style><section class="kp-region-fest"><h2>Festivals coming up in Seoul</h2><ul class="kp-fest"><li><time datetime="2026-10-18">18 Oct – 22 Nov</time><div><b>Sium Sium Morning</b><small>83-19 Seonsa-ro, Gangdong-gu, Seoul ·  <span lang="ko">쉬엄쉬엄모닝</span></small><a href="https://map.naver.com/p/search/%EC%89%AC%EC%97%84%EC%89%AC%EC%97%84%EB%AA%A8%EB%8B%9D" target="_blank" rel="noopener">Find it on Naver Map</a></div></li><li><time datetime="2026-11-20">20 Nov – 22 Nov</time><div><b>The Souvenir Fair</b><small>281 Eulji-ro, Jung-gu, Seoul ·  <span lang="ko">대한민국 관광기념품 박람회</span></small><a href="https://map.naver.com/p/search/%EB%8C%80%ED%95%9C%EB%AF%BC%EA%B5%AD%20%EA%B4%80%EA%B4%91%EA%B8%B0%EB%85%90%ED%92%88%20%EB%B0%95%EB%9E%8C%ED%9A%8C" target="_blank" rel="noopener">Find it on Naver Map</a></div></li><li><time datetime="2026-12-11">11 Dec – 10 Jan</time><div><b>Gwanghwamun Market</b><small>B172 Sejong-daero, Jongno-gu, Seoul ·  <span lang="ko">광화문 마켓</span></small><a href="https://map.naver.com/p/search/%EA%B4%91%ED%99%94%EB%AC%B8%20%EB%A7%88%EC%BC%93" target="_blank" rel="noopener">Find it on Naver Map</a></div></li><li><time datetime="2026-12-11">11 Dec – 31 Jan</time><div><b>Seoul Lantern Festival</b><small>Taepyeongno 1-ga, Jung-gu, Seoul ·  <span lang="ko">서울빛초롱축제</span></small><a href="https://map.naver.com/p/search/%EC%84%9C%EC%9A%B8%EB%B9%9B%EC%B4%88%EB%A1%B1%EC%B6%95%EC%A0%9C" target="_blank" rel="noopener">Find it on Naver Map</a></div></li><li><time datetime="2026-12-11">11 Dec – 3 Jan</time><div><b>Seoul Light Gwanghwamun</b><small>1-68 Sejongno, Jongno-gu, Seoul ·  <span lang="ko">서울라이트 광화문</span></small><a href="https://map.naver.com/p/search/%EC%84%9C%EC%9A%B8%EB%9D%BC%EC%9D%B4%ED%8A%B8%20%EA%B4%91%ED%99%94%EB%AC%B8" target="_blank" rel="noopener">Find it on Naver Map</a></div></li></ul><p class="kp-fest-note"><a href="korea-festivals.html">See all festivals in Korea →</a></p></section>
 <!-- /kp-region-festivals -->

diff --git a/guides.html b/guides.html
@@ -2603,11 +2603,11 @@ TRAVEL · NEW
 </small>
 
 <h2>
-Seoul Shopping Districts: Where to Shop on Your First Trip
+Korea Shopping Districts: Where to Shop in Seoul on Your First Trip
 </h2>
 
 <p>
-A practical guide to Seoul’s best shopping areas, from Myeongdong beauty stores to Hongdae fashion, Seongsu pop-ups and traditional markets.
+Seoul’s shopping districts compared: Myeongdong for K-beauty, Seongsu for pop-ups, Hongdae, Gangnam’s underground malls, Dongdaemun and the markets.
 </p>
 
 <span class="guide-arrow">
